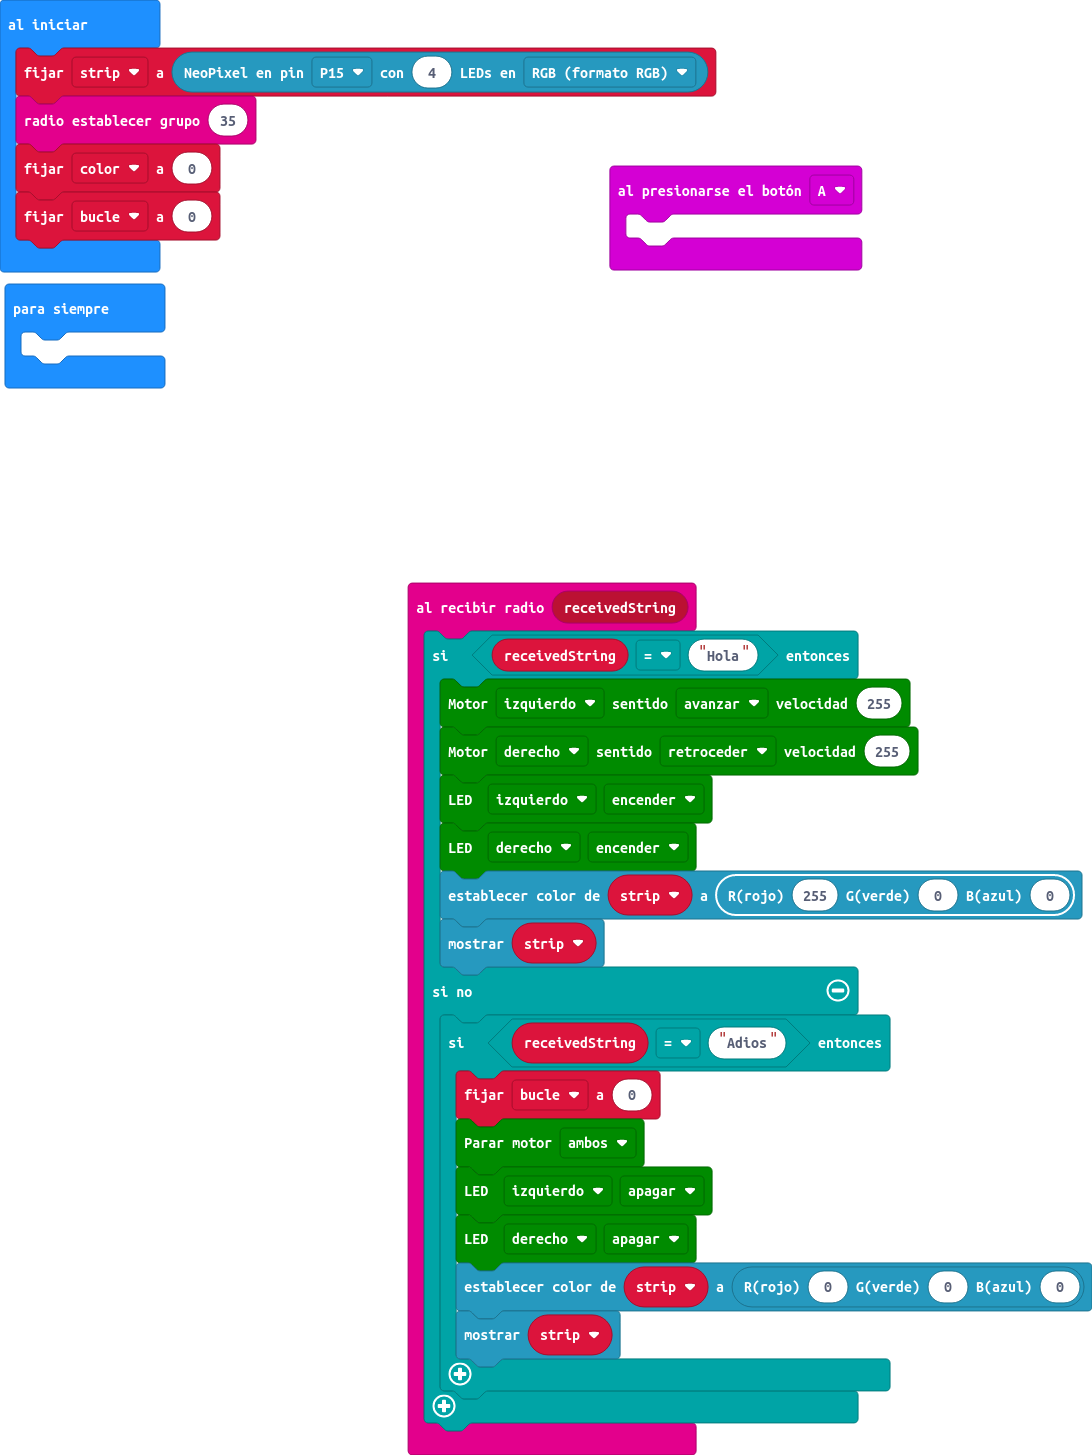
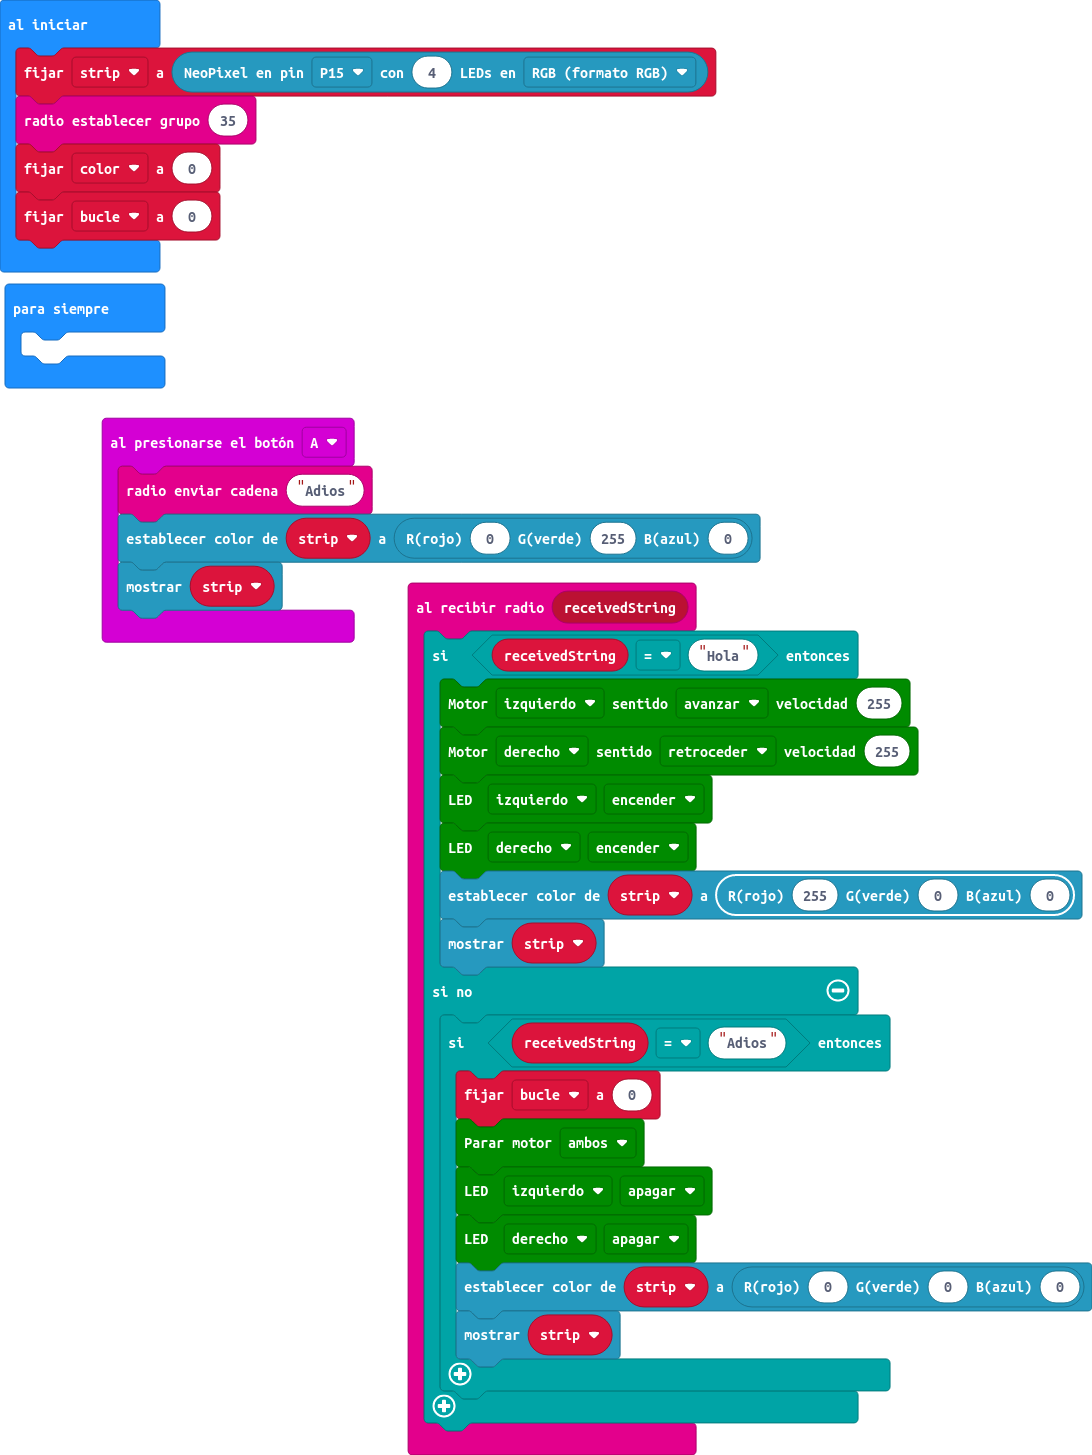
Actualizar main.blocks, main.ts

Changed region(s): [[0.0934, 0.2784, 0.7161, 0.4639], [0.5604, 0.0928, 0.8095, 0.1856]]

diff --git a/main.ts b/main.ts
@@ -1,5 +1,7 @@
 input.onButtonPressed(Button.A, function () {
-	
+    radio.sendString("Adios")
+    strip.showColor(neopixel.rgb(0, 255, 0))
+    strip.show()
 })
 radio.onReceivedString(function (receivedString) {
     if (receivedString == "Hola") {
